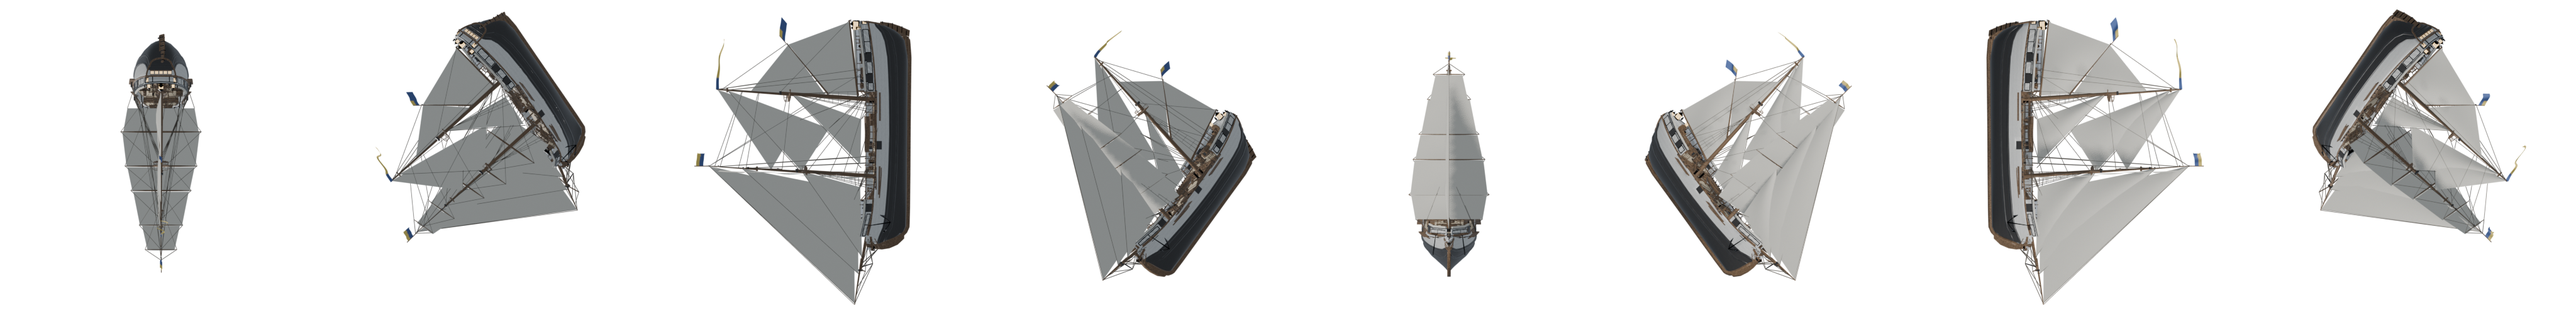
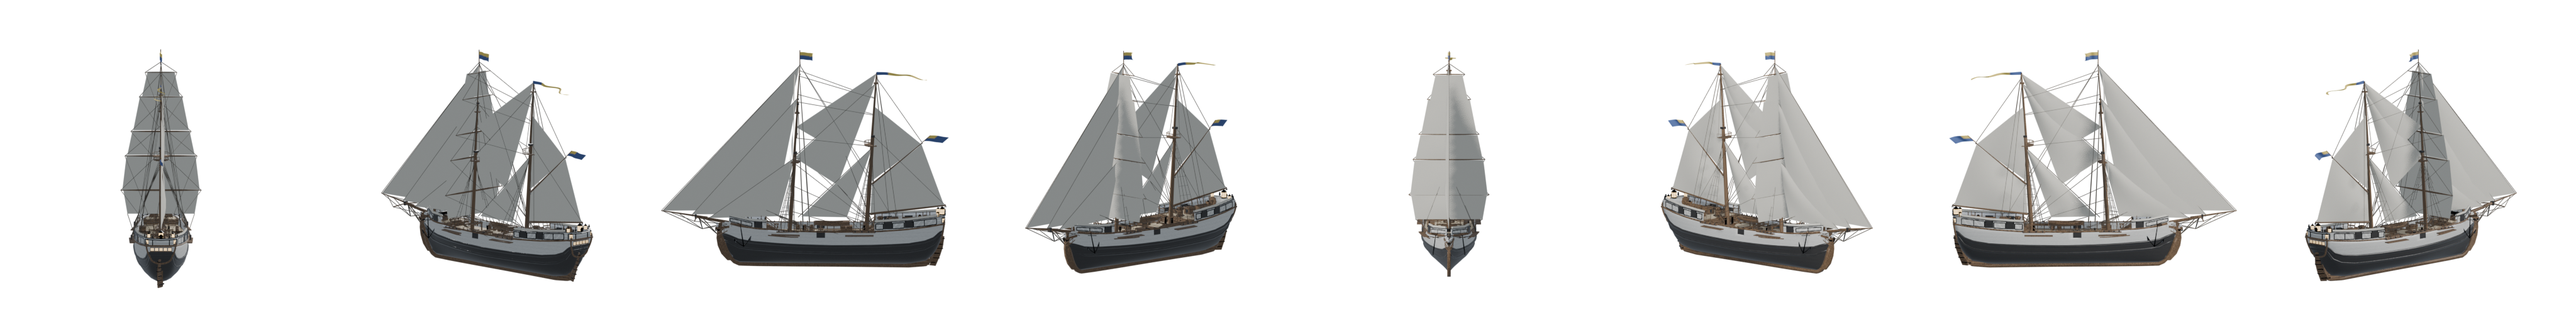
ship lod imposter fix

Changed region(s): [[0.625, 0.0312, 1.0, 0.9375], [0.125, 0.0312, 0.5, 0.9375], [0.0312, 0.125, 0.0938, 0.875]]

diff --git a/client/src/app/sailing/services/cannon.service.ts b/client/src/app/sailing/services/cannon.service.ts
@@ -139,6 +139,22 @@ export class CannonService {
   readonly gunElevDeg = signal(this.ELEV_HULL);
   readonly targetMode = signal<'hull' | 'mast'>('hull');
 
+  // ── Soft gunnery lock (aim assist) ──────────────────────────────────────────
+  // A broadside soft-locks the nearest enemy roughly abeam (within LOCK_ARC of the beam) and solves the
+  // LEADING, range-correct shot to it — but the horizontal correction is clamped to AIM_CONE, so you must
+  // still bring the broadside generally to bear (an assist, not auto-aim). gunElevDeg picks the aim HEIGHT on
+  // the target (waterline ↔ masthead), so Shift/Ctrl still choose hull vs rigging. Round/bar only (grape stays
+  // a fixed canister spread). lockTarget drives the HUD reticle. The server adjudicates the solved shot like
+  // any other (it keeps muzzle speed, so it passes validateShot).
+  private readonly LOCK_ARC_DEG   = 42;    // target must be within this of the beam to lock on
+  private readonly AIM_CONE_DEG   = 52;    // max horizontal correction off the raw beam (keeps positioning relevant)
+  private readonly LOCK_MAX_RANGE = 320;   // only lock within effective round-shot reach
+  private readonly AIM_LOW_Y      = 0.6;   // gunElevDeg = ELEV_HULL → aim at the waterline
+  private readonly AIM_HIGH_Y     = 14;    // gunElevDeg = ELEV_MAST → aim at the masthead
+  private readonly TRAVEL_SCALE   = 3;     // world velocity = speed × this (mirror combat-constants)
+  /** The enemy a broadside is currently solving onto (for the HUD reticle); null when no side has a lock. */
+  readonly lockTarget = signal<{ id: string; x: number; z: number } | null>(null);
+
   // ── Ammunition ──────────────────────────────────────────────────────────────
   // 'round' = solid shot (full range, anti-hull). 'bar' = bar shot (~45% range, anti-mast / anti-rigging).
   // 'grape' = canister (~22% range, anti-CREW — a fanned pellet spread, no hull damage).
@@ -191,8 +207,12 @@ export class CannonService {
 
   // Aiming aid: a translucent red trajectory tube per side, shown only while that side's
   // guns are run out and ready to fire (not stowed, arming, firing or reloading).
-  private aimMat: StandardMaterial | null = null;
+  private aimMat: StandardMaterial | null = null;       // free-aim arc (red)
+  private aimMatLock: StandardMaterial | null = null;   // locked solution arc (green)
   private readonly aimTube: Record<'port' | 'stbd', Mesh | null> = { port: null, stbd: null };
+  // Lock reticle: a camera-facing corner-bracket billboard parked on the soft-locked enemy (built lazily).
+  private reticle: Mesh | null = null;
+  private readonly RETICLE_Y = 3.5;   // sit it on the hull/low rig of the locked ship
 
   // Per-side gunnery state machines.
   private readonly gun: Record<'port' | 'stbd', SideGun> = {
@@ -380,6 +400,9 @@ export class CannonService {
     this.aimTube.port?.dispose();
     this.aimTube.stbd?.dispose();
     this.aimMat?.dispose();
+    this.aimMatLock?.dispose();
+    this.reticle?.dispose(false, true);   // also frees its DynamicTexture + material
+    this.reticle = null;
 
     for (const b of this.balls) b.mesh.dispose();
     this.flashPort?.dispose();
@@ -932,45 +955,121 @@ export class CannonService {
 
   // ── Aiming aid (predicted trajectory) ───────────────────────────────────────
 
-  /** Show/update a translucent red arc for each side that's run out and ready; hide otherwise. */
+  /** Show/update the predicted arc per run-out side: GREEN, ending AT the target, when a lock has a firing
+   *  solution; RED splashing into the sea on free aim. Hidden otherwise. */
   private updateAimArcs(): void {
+    let lock: { id: string; x: number; z: number } | null = null;   // for the HUD reticle (locked ship)
     for (const side of ['port', 'stbd'] as const) {
       const ready = this.gun[side].state === 'ready';
       if (!ready) { this.aimTube[side]?.setEnabled(false); continue; }
 
-      const path = this.buildArcPath(side);
+      // Solve the lock ONCE (round/bar) — reused for the arc shape, its colour, and the reticle.
+      let sol: ReturnType<CannonService['solveLock']> = null;
+      if (this.shotType() !== 'grape') {
+        const vs = this.vesselService.state();
+        const hRad = vs.heading * Math.PI / 180, sinH = Math.sin(hRad), cosH = Math.cos(hRad);
+        const beamX = side === 'port' ? -cosH : cosH, beamZ = side === 'port' ? sinH : -sinH;
+        sol = this.solveLock(side, vs, beamX, beamZ, this.muzzleV(), this.muzzles[side][0].y);
+        if (sol && !lock) lock = { id: sol.lockId, x: sol.cx, z: sol.cz };   // park the reticle ON the locked ship
+      }
+
+      const path = this.buildArcPath(side, sol);
+      const mat  = this.aimMaterial(!!sol);   // locked → green solution arc; free → red
       const prev = this.aimTube[side];
       if (prev) {
         // Reuse the geometry — same sample count, so update in place (cheap).
-        this.aimTube[side] = MeshBuilder.CreateTube('aim_' + side, { path, instance: prev }, this.scene);
-        prev.setEnabled(true);
+        const tube = MeshBuilder.CreateTube('aim_' + side, { path, instance: prev }, this.scene);
+        tube.material = mat;                  // recolour by lock state each frame
+        tube.setEnabled(true);
+        this.aimTube[side] = tube;
       } else {
         const tube = MeshBuilder.CreateTube('aim_' + side, {
           path, radius: AIM_RADIUS, tessellation: 8, cap: Mesh.NO_CAP, updatable: true,
         }, this.scene);
-        tube.material         = this.aimMaterial();
+        tube.material         = mat;
         tube.isPickable       = false;
         tube.renderingGroupId = 3;        // draw over the water like the cannon FX
         tube.alphaIndex       = 0;        // behind the smoke/flame within the group
         this.aimTube[side]    = tube;
       }
     }
+    // World-space reticle on the locked ship (camera-facing); gentle pulse so it reads as a live lock.
+    const ret = this.reticleMesh();
+    if (lock) {
+      ret.position.set(lock.x, this.RETICLE_Y, lock.z);
+      ret.scaling.setAll(1 + 0.08 * Math.sin(this.elapsed * 6));
+      if (!ret.isEnabled()) ret.setEnabled(true);
+    } else if (ret.isEnabled()) {
+      ret.setEnabled(false);
+    }
+    // Publish the lock id for any Angular HUD binding (throttled to id changes; the mesh handles per-frame motion).
+    if ((this.lockTarget()?.id ?? null) !== (lock?.id ?? null)) {
+      this.zone.run(() => this.lockTarget.set(lock));
+    }
   }
 
-  /** Sample the cannonball trajectory this side would fly right now (ship pose + elevation). */
-  private buildArcPath(side: 'port' | 'stbd'): Vector3[] {
+  /**
+   * Soft aim-assist: find the enemy roughly abeam on `side` (within LOCK_ARC of the beam, in range) and solve
+   * the LEADING low-arc shot to it — aiming at a HEIGHT on the target chosen by gunElevDeg (waterline↔mast).
+   * The azimuth correction is CLAMPED to AIM_CONE of the raw beam, so it only refines a generally-good aim
+   * (you still have to bring the broadside to bear). Returns the launch direction + h/v speed split, or null
+   * when there's no valid lock — in which case the caller fires straight out the beam at the manual elevation.
+   * ox/oz = ship centre (so every gun + the preview share one solution); muzzleY = representative gun height.
+   */
+  private solveLock(side: 'port' | 'stbd', vs: { x: number; z: number; heading: number },
+                    beamX: number, beamZ: number, mv: number, muzzleY: number):
+                    { dirX: number; dirZ: number; vh: number; vy0: number; lockId: string; px: number; pz: number; cx: number; cz: number } | null {
+    const enemies = this.multiplayerService.otherPlayers();
+    if (!enemies.length) return null;
+    const beamAng = Math.atan2(beamX, beamZ);
+    const norm = (a: number) => Math.atan2(Math.sin(a), Math.cos(a));   // → [-π, π]
+
+    // Acquire: the enemy whose bearing is closest to the beam, within the arc + range.
+    let best: { id: string; x: number; z: number; heading: number; speed: number } | null = null;
+    let bestOff = this.LOCK_ARC_DEG * Math.PI / 180;
+    for (const e of enemies) {
+      const dx = e.x - vs.x, dz = e.z - vs.z, dist = Math.hypot(dx, dz);
+      if (dist < 2 || dist > this.LOCK_MAX_RANGE) continue;
+      const off = Math.abs(norm(Math.atan2(dx, dz) - beamAng));
+      if (off < bestOff) { bestOff = off; best = e as never; }
+    }
+    if (!best) return null;
+
+    // Aim HEIGHT on the target from the manual elevation control (Shift/Ctrl, Hull/Mast presets).
+    const tf   = Math.max(0, Math.min(1, (this.gunElevDeg() - this.ELEV_HULL) / (this.ELEV_MAST - this.ELEV_HULL)));
+    const aimY = this.AIM_LOW_Y + (this.AIM_HIGH_Y - this.AIM_LOW_Y) * tf;
+    // Target world velocity (same dead-reckoning the server adjudicator uses).
+    const tvx = Math.sin(best.heading * Math.PI / 180) * best.speed * this.TRAVEL_SCALE;
+    const tvz = Math.cos(best.heading * Math.PI / 180) * best.speed * this.TRAVEL_SCALE;
+    const v = mv, v2 = v * v, dY = aimY - muzzleY, ox = vs.x, oz = vs.z;
+    // Iterate lead → range → flight-time → re-lead, then solve the low (direct-fire) launch elevation.
+    let tof = Math.hypot(best.x - ox, best.z - oz) / (v * 0.97), theta = 0, px = best.x, pz = best.z, R = 0;
+    for (let k = 0; k < 3; k++) {
+      px = best.x + tvx * tof; pz = best.z + tvz * tof;
+      R = Math.hypot(px - ox, pz - oz);
+      const disc = v2 * v2 - G * (G * R * R + 2 * dY * v2);
+      if (disc < 0) return null;                                  // out of ballistic reach
+      theta = Math.atan2(v2 - Math.sqrt(disc), G * R);            // low arc
+      tof = R / (v * Math.cos(theta));
+    }
+    // Azimuth toward the lead point, CLAMPED to the cone around the beam (positioning still matters).
+    const cone = this.AIM_CONE_DEG * Math.PI / 180;
+    const az   = beamAng + Math.max(-cone, Math.min(cone, norm(Math.atan2(px - ox, pz - oz) - beamAng)));
+    return { dirX: Math.sin(az), dirZ: Math.cos(az), vh: v * Math.cos(theta), vy0: v * Math.sin(theta), lockId: best.id, px, pz, cx: best.x, cz: best.z };
+  }
+
+  /** Sample the predicted arc this side would fly. With a lock `sol` (round/bar) it traces the SOLVED leading
+   *  shot and STOPS at the target intercept (so the arc visually lands on the locked ship); free aim splashes
+   *  down at the waterline. `sol` is solved once by updateAimArcs and passed in (no double-solve). */
+  private buildArcPath(side: 'port' | 'stbd', sol: ReturnType<CannonService['solveLock']>): Vector3[] {
     const vs   = this.vesselService.state();
     const hRad = vs.heading * Math.PI / 180;
     const sinH = Math.sin(hRad), cosH = Math.cos(hRad);
 
-    // Mirror fireOneCannon exactly so the preview matches the real shot.
-    const dirX    = side === 'port' ? -cosH :  cosH;
-    const dirZ    = side === 'port' ?  sinH : -sinH;
+    const beamX   = side === 'port' ? -cosH :  cosH;
+    const beamZ   = side === 'port' ?  sinH : -sinH;
     const elevRad = this.gunElevDeg() * Math.PI / 180;
     const mv      = this.muzzleV();
-    const vh      = mv * Math.cos(elevRad);
-    const vy0     = mv * Math.sin(elevRad);
-    const bvx     = dirX * vh, bvz = dirZ * vh;
 
     const m = this.muzzles[side];
     const muz = m[Math.floor(m.length / 2)] ?? m[0];   // centre gun, representative
@@ -978,10 +1077,20 @@ export class CannonService {
     const oy  = muz.y;
     const oz  = vs.z - muz.x * sinH + muz.z * cosH;
 
-    // Solve oy + vy0·t − ½·g·t² = waterline for the splash-down time.
-    const a = 0.5 * G, b = -vy0, c = AIM_WATER_Y - oy;
-    const disc = b * b - 4 * a * c;
-    let tEnd = disc > 0 ? (-b + Math.sqrt(disc)) / (2 * a) : 2.0;
+    const vh  = sol ? sol.vh  : mv * Math.cos(elevRad);
+    const vy0 = sol ? sol.vy0 : mv * Math.sin(elevRad);
+    const bvx = (sol ? sol.dirX : beamX) * vh, bvz = (sol ? sol.dirZ : beamZ) * vh;
+
+    let tEnd: number;
+    if (sol) {
+      // Locked: stop at the intercept — time to fly the horizontal range to the lead point (vh = horiz speed).
+      tEnd = Math.hypot(sol.px - ox, sol.pz - oz) / Math.max(1, vh);
+    } else {
+      // Free aim: solve oy + vy0·t − ½·g·t² = waterline for the splash-down time.
+      const a = 0.5 * G, b = -vy0, c = AIM_WATER_Y - oy;
+      const disc = b * b - 4 * a * c;
+      tEnd = disc > 0 ? (-b + Math.sqrt(disc)) / (2 * a) : 2.0;
+    }
     tEnd = Math.max(0.3, Math.min(tEnd, 6.0));
 
     const path: Vector3[] = [];
@@ -992,18 +1101,65 @@ export class CannonService {
     return path;
   }
 
-  /** Shared mostly-transparent red, self-lit so it reads at any time of day. */
-  private aimMaterial(): StandardMaterial {
-    if (this.aimMat) return this.aimMat;
-    const m = new StandardMaterial('aimMat', this.scene);
-    m.emissiveColor   = new Color3(0.95, 0.12, 0.10);
+  /** Self-lit translucent arc material. LOCKED = a confident GREEN solution arc (you have a firing solution);
+   *  FREE = the old RED guess. Two cached materials so each side colours independently. */
+  private aimMaterial(locked: boolean): StandardMaterial {
+    if (locked) {
+      if (!this.aimMatLock) this.aimMatLock = this.makeAimMat('aimMatLock', new Color3(0.24, 0.95, 0.40), 0.40);
+      return this.aimMatLock;
+    }
+    if (!this.aimMat) this.aimMat = this.makeAimMat('aimMatFree', new Color3(0.95, 0.30, 0.12), 0.24);
+    return this.aimMat;
+  }
+
+  private makeAimMat(name: string, color: Color3, alpha: number): StandardMaterial {
+    const m = new StandardMaterial(name, this.scene);
+    m.emissiveColor   = color;
     m.diffuseColor    = new Color3(0, 0, 0);
     m.specularColor   = new Color3(0, 0, 0);
     m.disableLighting = true;
-    m.alpha           = 0.26;
+    m.alpha           = alpha;
     m.backFaceCulling = false;
-    this.aimMat = m;
     return m;
+  }
+
+  /** Lazily build the lock-reticle billboard: four amber corner-brackets on a transparent quad, camera-facing,
+   *  drawn over the water. Parked on the soft-locked enemy by updateAimArcs; hidden when there's no lock. */
+  private reticleMesh(): Mesh {
+    if (this.reticle) return this.reticle;
+    const S = 128;
+    const tex = new DynamicTexture('lockReticleTex', { width: S, height: S }, this.scene, true);
+    const ctx = tex.getContext() as unknown as CanvasRenderingContext2D;
+    ctx.clearRect(0, 0, S, S);
+    ctx.strokeStyle = 'rgba(255, 90, 60, 0.98)';
+    ctx.lineWidth = 8;
+    ctx.lineCap = 'round';
+    const m = 16, len = 34;
+    for (const [x, y, sx, sy] of [[m, m, 1, 1], [S - m, m, -1, 1], [m, S - m, 1, -1], [S - m, S - m, -1, -1]] as const) {
+      ctx.beginPath();
+      ctx.moveTo(x, y + sy * len); ctx.lineTo(x, y); ctx.lineTo(x + sx * len, y);
+      ctx.stroke();
+    }
+    tex.update();
+    tex.hasAlpha = true;
+
+    const mat = new StandardMaterial('lockReticleMat', this.scene);
+    mat.emissiveTexture            = tex;   // brackets glow their own colour
+    mat.diffuseTexture             = tex;
+    mat.useAlphaFromDiffuseTexture = true;
+    mat.diffuseColor               = new Color3(0, 0, 0);
+    mat.specularColor              = new Color3(0, 0, 0);
+    mat.disableLighting            = true;
+    mat.backFaceCulling            = false;
+
+    const plane = MeshBuilder.CreatePlane('lockReticle', { size: 8 }, this.scene);
+    plane.material         = mat;
+    plane.billboardMode    = Mesh.BILLBOARDMODE_ALL;
+    plane.renderingGroupId = 3;        // over the water, with the cannon FX
+    plane.isPickable       = false;
+    plane.setEnabled(false);
+    this.reticle = plane;
+    return plane;
   }
 
   // ── Main tick ─────────────────────────────────────────────────────────────
@@ -1155,7 +1311,7 @@ export class CannonService {
 
     // Beam direction (perpendicular to the hull): port out −X, starboard out +X. Each vessel's def
     // places its muzzles on the matching side, so the ball always leaves out its own rail.
-    const dirX = side === 'port' ? -cosH :  cosH;
+    const dirX = side === 'port' ? -cosH :  cosH;   // raw beam (muzzle FX + grape spread fire out the rail)
     const dirZ = side === 'port' ?  sinH : -sinH;
     const elevRad = this.gunElevDeg() * Math.PI / 180;
     const mv   = this.muzzleV();
@@ -1168,21 +1324,28 @@ export class CannonService {
 
     const kind  = this.shotType();
     const myId  = this.multiplayerService.getMyId() ?? 'local';
+    // Soft aim-assist (round/bar only): a lock leads + ranges the shot onto an enemy roughly abeam. Computed
+    // from the ship centre so every gun in the broadside shares one solution (parallel converging shots).
+    const sol = kind !== 'grape' ? this.solveLock(side, vs, dirX, dirZ, mv, muz.y) : null;
     // Round/bar = one shot out the beam. Grape = a fan of GRAPE_PELLETS, each its own server-adjudicated shot
     // with scattered azimuth + elevation (a true canister spread). Magnitude stays `mv`, so each pellet sits in
     // the server's grape speed band.
     const pellets = kind === 'grape' ? GRAPE_PELLETS : 1;
     for (let k = 0; k < pellets; k++) {
-      let ddx = dirX, ddz = dirZ, el = elevRad;
+      let bvx: number, vyk: number, bvz: number;
       if (kind === 'grape') {
         const az = (Math.random() * 2 - 1) * GRAPE_SPREAD_RAD;   // rotate the beam in the horizontal plane
         const ca = Math.cos(az), sa = Math.sin(az);
-        ddx = dirX * ca - dirZ * sa;
-        ddz = dirX * sa + dirZ * ca;
-        el  = elevRad + (Math.random() * 2 - 1) * GRAPE_ELEV_RAD;
+        const ddx = dirX * ca - dirZ * sa, ddz = dirX * sa + dirZ * ca;
+        const el  = elevRad + (Math.random() * 2 - 1) * GRAPE_ELEV_RAD;
+        const vh  = mv * Math.cos(el); vyk = mv * Math.sin(el);
+        bvx = ddx * vh; bvz = ddz * vh;
+      } else if (sol) {
+        bvx = sol.dirX * sol.vh; vyk = sol.vy0; bvz = sol.dirZ * sol.vh;   // leading, range-correct solution
+      } else {
+        const vh = mv * Math.cos(elevRad); vyk = mv * Math.sin(elevRad);
+        bvx = dirX * vh; bvz = dirZ * vh;                                  // straight out the beam (no lock)
       }
-      const vh = mv * Math.cos(el), vyk = mv * Math.sin(el);
-      const bvx = ddx * vh, bvz = ddz * vh;
       const seq = ++this.shotSeq;
       this.launchBall(mwx, mwy, mwz, bvx, vyk, bvz, myId, seq, kind);
       this.multiplayerService.broadcastShot(mwx, mwy, mwz, bvx, vyk, bvz, seq, kind);

diff --git a/server/npc.js b/server/npc.js
@@ -616,6 +616,13 @@ function tickNpcs(players, dtSec, broadcastLeave, nowMs, fireShot) {
       npc.engaged = true;
       npc.fleeing = (stance === 'flee');
       desired = npc.fleeing ? escapeHeading(npc, foe.state, wind, ph) : engageHeading(npc, foe.state, wind, ph);
+      if (npc.fleeing) {
+        // Imperfect helmsman under pressure: a slowly-drifting heading error around the optimal escape line.
+        // Any deviation from the best VMG-away heading costs speed-made-good, so a well-sailed chaser on a
+        // clean line gradually closes — a CATCH-UP lever, not a stat nerf (their hull/sails are unchanged).
+        npc.fleeWander = (npc.fleeWander || 0) * 0.96 + (Math.random() - 0.5) * 7;   // smoothed ±~ several °
+        desired = (desired + npc.fleeWander + 360) % 360;
+      }
     } else {
       npc.engaged = false; npc.fleeing = false;   // no threat (or watching from afar) → sail the trade route
       if (!npc.route) { planTrip(npc, towns); if (!npc.route) continue; }

diff --git a/client/src/app/sailing/services/vessel.service.ts b/client/src/app/sailing/services/vessel.service.ts
@@ -357,7 +357,9 @@ export class VesselService {
   // The HUD displays physics speed (realistic knots), but world position advances
   // at TRAVEL_SCALE × that rate — a classic video-game map-compression trick.
   // Raise this to make island-to-island sailing feel snappier; lower it for realism.
-  private readonly TRAVEL_SCALE = 5.0;
+  // MUST match the server (combat-constants.js TRAVEL_SCALE, which movement-constants imports) or the server's
+  // movement validation snaps the local ship back (rubber-banding). Currently 3.
+  private readonly TRAVEL_SCALE = 3.0;
 
   // ── Hull collision ──────────────────────────────────────────────────────────
   // The aground check used to test only the boat's CENTRE point, so the long bow

diff --git a/server/combat-constants.js b/server/combat-constants.js
@@ -13,7 +13,7 @@
  */
 
 const G            = 9.81;   // cannonball gravity (world units/s^2) — matches client cannon
-const TRAVEL_SCALE = 5.0;    // ship world-velocity = speed * TRAVEL_SCALE along heading
+const TRAVEL_SCALE = 3.0;    // ship world-velocity = speed * TRAVEL_SCALE along heading
 
 // ── Hull zone geometry (oriented box in vessel-local space) ───────────────────
 const HALF_LEN  = 9.0;    // fore-aft half-length (|lon| <= HALF_LEN)

diff --git a/client/src/app/sailing/services/multiplayer.service.ts b/client/src/app/sailing/services/multiplayer.service.ts
@@ -233,7 +233,7 @@ export class MultiplayerService {
   private readonly RECONCILE = 0.25;
   // Must match the server world-distance multiplier (vessel.service TRAVEL_SCALE) so
   // dead-reckoning projects forward at the same rate positions actually move.
-  private readonly TRAVEL_SCALE = 5.0;
+  private readonly TRAVEL_SCALE = 3.0;
 
   private recoilTickFn: (() => void) | null = null;
 

diff --git a/TODO.md b/TODO.md
@@ -2,12 +2,17 @@
 
 # General or Current TODO Items
 
-* thoughts on making aiming easier? come up with a plan
-* add occasional bosun whistle (no more than once a day)
+* merchants still go into land during combat
+* don't render other ship's crews... expensive
+* add occasional bosun whistle (raise/lower anchor... and when first adding sail after leaving port (or first time since logging in))\
+* I want to make NPC merchant labels and player names more visible at distance... just imroving "size" won't help... since ships are often far off... we need a way to make labels (esp of players) more readable at a distance
+* I also want to make the dot indicating towns on maps more visible.. they are hard to see
+* have way to earn back faction reputation... increased rep from attacking enemies and enemies of allies... but also paying off at "Governor's Mansion"... new menu item at town selection screen
 * reduced crew slows reload speed of cannons... NPCs will use bar shot too...
 * brig flags seem off from wind direction... off because they also rotate with trim in addition to wind
 * revisit landscape not loading (losing the landscape loading race)
 * make pinace buoyance more responsive
+* make salvage crate asset
 * check waves go right way for wind
 * why a dark patch around player ship? is it because of transparency to see hull?
 * intro text for newest players saying how they overthrew their captain and struck out for a life of siezing what you can come up with story
